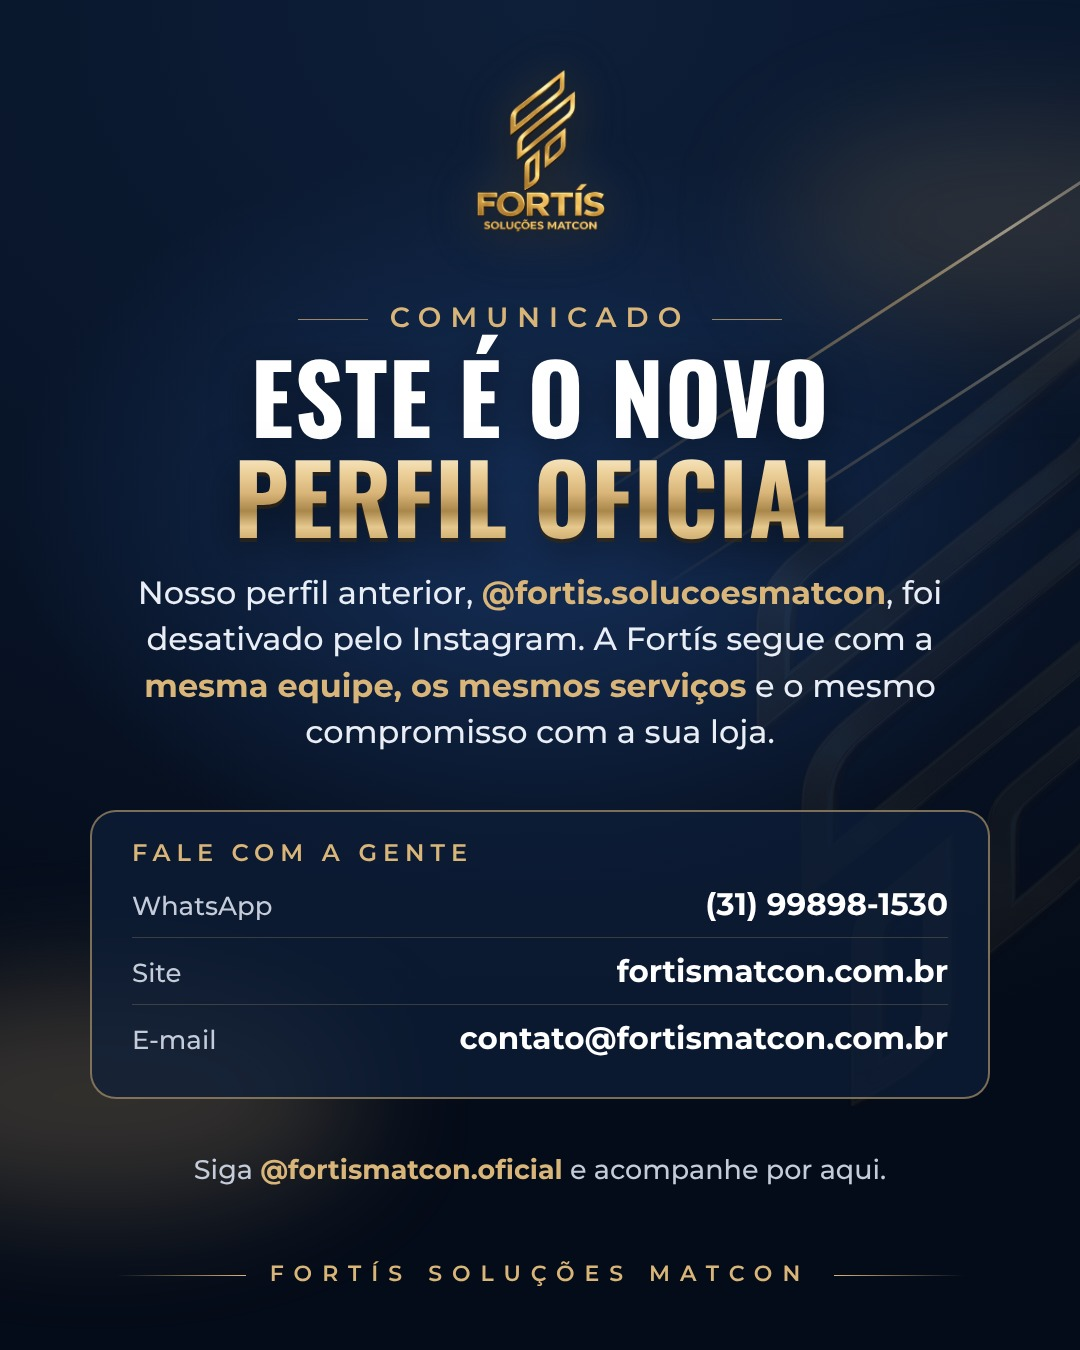
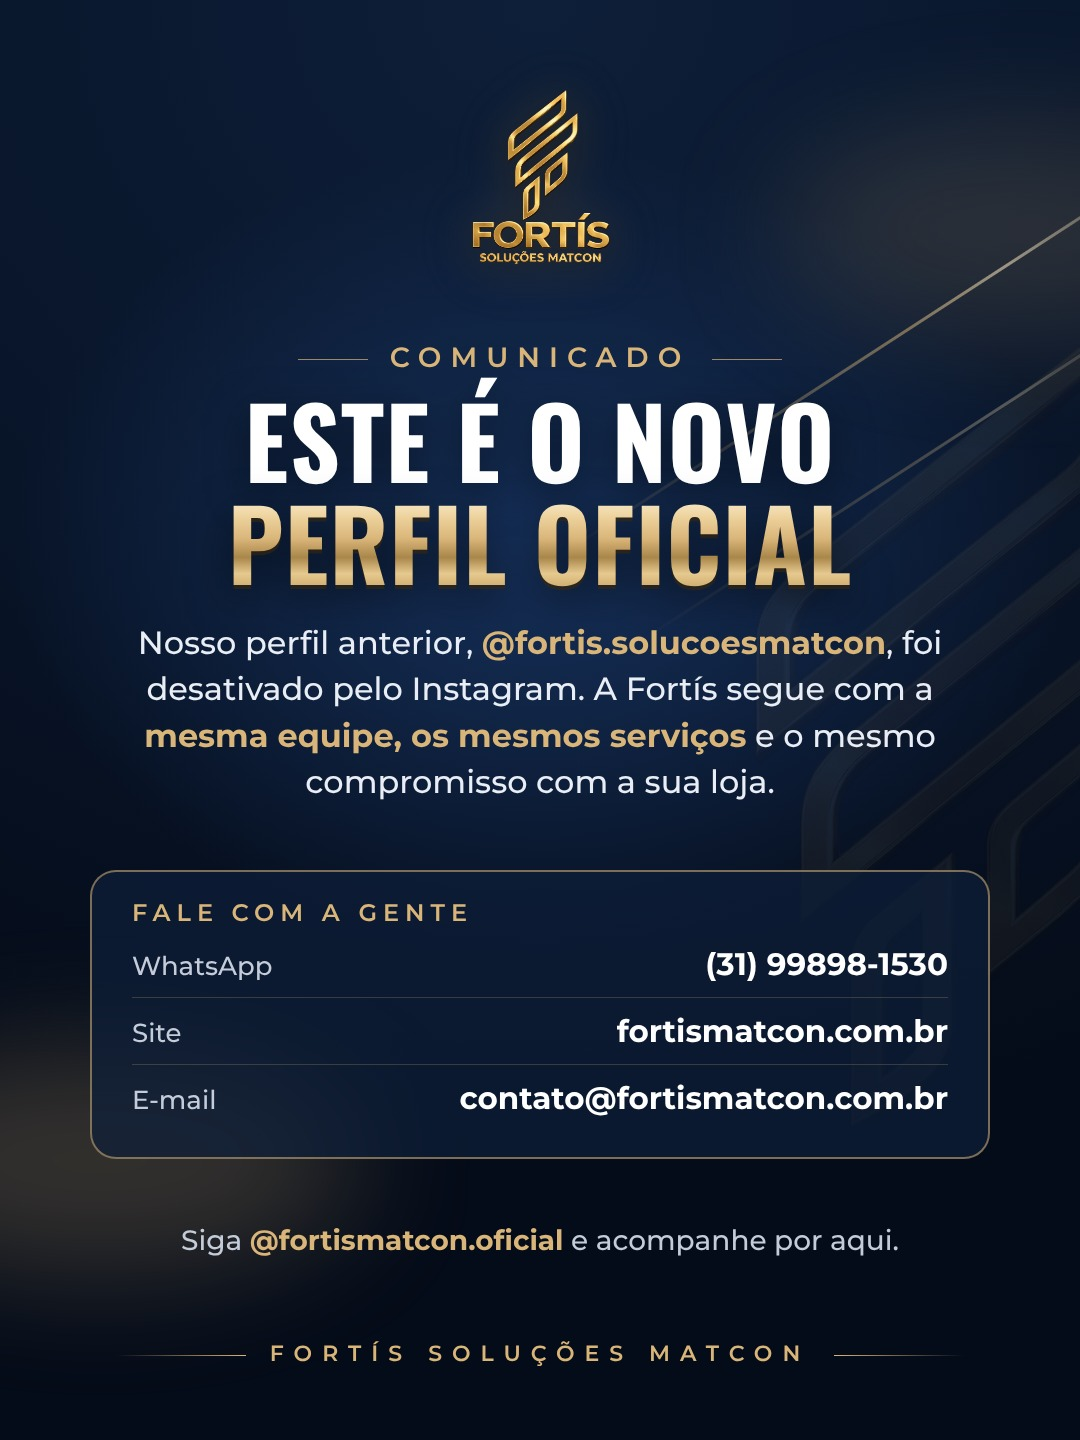
Post fixado no formato 3:4 (1080x1440)
Claude-Session: https://claude.ai/code/session_01HVzRnNg6pzCVkCeZ2TrhZb

diff --git a/gerador/especiais/perfil-oficial-fixado-nov26.py b/gerador/especiais/perfil-oficial-fixado-nov26.py
@@ -9,20 +9,20 @@ ROT = "font-size:26px;color:#c4ccda;font-weight:500"
 VAL = "font-size:31px;color:#fff;font-weight:700"
 
 def feed():
-    w, h = 1080, 1350
+    w, h = 1080, 1440
     return f"""<div class="arte" style="width:{w}px;height:{h}px">{G.fundo(w,h,1.2)}
-  <img class="logo" src="{G.A}/logo.png" style="top:70px;width:130px">
-  <div class="kicker" style="top:300px;font-size:28px">COMUNICADO</div>
-  <div class="titulo" data-max="920" data-fs="96" style="top:345px;line-height:1.04"><div class="branco">ESTE É O NOVO</div><div class="metal">PERFIL OFICIAL</div></div>
-  <p class="sub" style="top:570px;left:100px;right:100px;font-size:32px">Nosso perfil anterior, <b>@fortis.solucoesmatcon</b>, foi desativado pelo Instagram. A Fortís segue com a <b>mesma equipe, os mesmos serviços</b> e o mesmo compromisso com a sua loja.</p>
-  <div style="{CARD};top:810px">
+  <img class="logo" src="{G.A}/logo.png" style="top:90px;width:140px">
+  <div class="kicker" style="top:340px;font-size:28px">COMUNICADO</div>
+  <div class="titulo" data-max="920" data-fs="98" style="top:388px;line-height:1.04"><div class="branco">ESTE É O NOVO</div><div class="metal">PERFIL OFICIAL</div></div>
+  <p class="sub" style="top:620px;left:100px;right:100px;font-size:32px">Nosso perfil anterior, <b>@fortis.solucoesmatcon</b>, foi desativado pelo Instagram. A Fortís segue com a <b>mesma equipe, os mesmos serviços</b> e o mesmo compromisso com a sua loja.</p>
+  <div style="{CARD};top:870px">
     <div style="font-size:24px;letter-spacing:6px;color:var(--gold);font-weight:600;margin-bottom:4px">FALE COM A GENTE</div>
     <div style="{LIN}"><span style="{ROT}">WhatsApp</span><span style="{VAL}">(31) 99898-1530</span></div>
     <div style="{LIN}"><span style="{ROT}">Site</span><span style="{VAL}">fortismatcon.com.br</span></div>
     <div style="{LIN};border-bottom:0"><span style="{ROT}">E-mail</span><span style="{VAL}">contato@fortismatcon.com.br</span></div>
   </div>
-  <p class="sub" style="top:1150px;left:110px;right:110px;font-size:27px;color:#c4ccda">Siga <b style="color:var(--gold)">@fortismatcon.oficial</b> e acompanhe por aqui.</p>
-  <div class="rodape" style="top:1260px;font-size:22px">FORTÍS SOLUÇÕES MATCON</div>
+  <p class="sub" style="top:1220px;left:110px;right:110px;font-size:28px;color:#c4ccda">Siga <b style="color:var(--gold)">@fortismatcon.oficial</b> e acompanhe por aqui.</p>
+  <div class="rodape" style="top:1340px;font-size:22px">FORTÍS SOLUÇÕES MATCON</div>
 </div>"""
 
 def story():
@@ -43,4 +43,4 @@ def story():
 </div>"""
 
 saida = os.path.join(G.RAIZ, 'posts', '2026-11', 'especiais')
-asyncio.run(G.renderizar([('perfil-oficial-fixado-feed', feed(), (1080, 1350)), ('perfil-oficial-story', story(), (1080, 1920))], saida))
+asyncio.run(G.renderizar([('perfil-oficial-fixado-feed', feed(), (1080, 1440)), ('perfil-oficial-story', story(), (1080, 1920))], saida))
